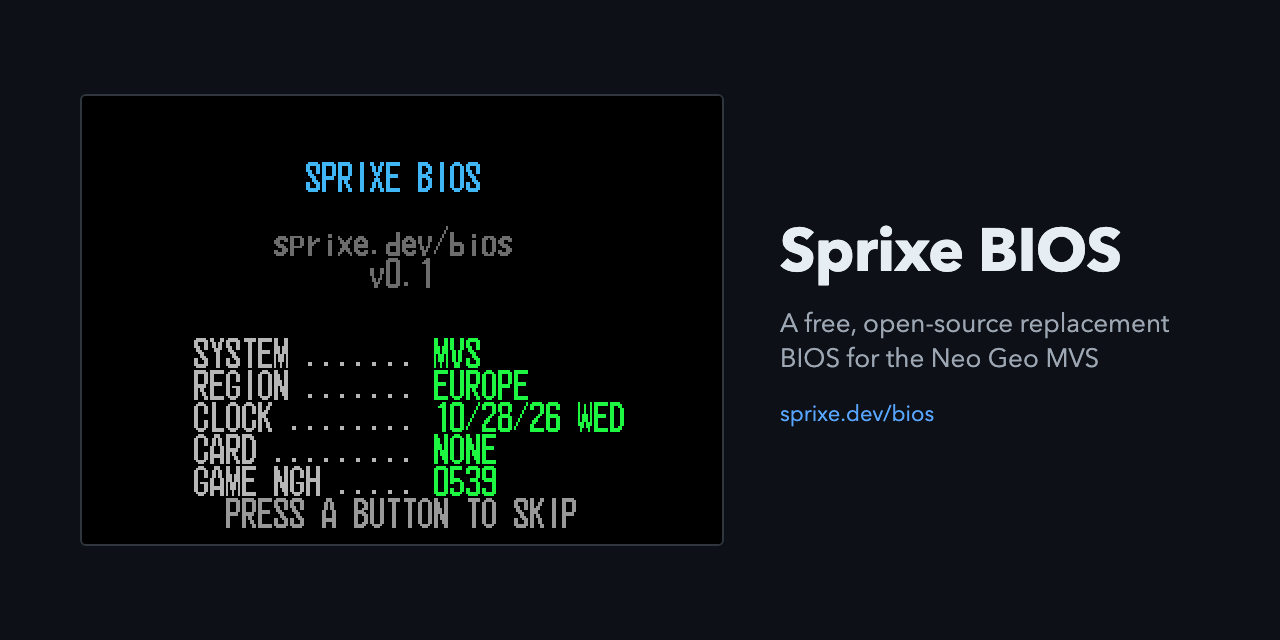
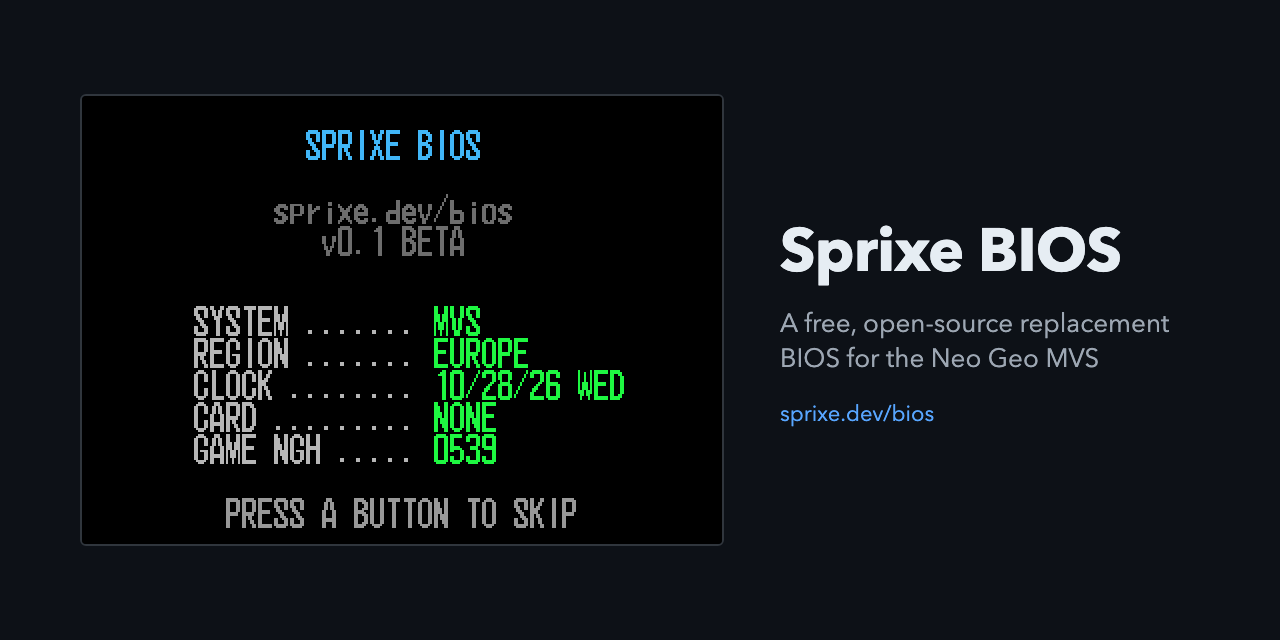
docs: boot screenshots retaken with the new layout
Taken under MAME 0.286 from the image 8d9a7611…, on an MV-6F
(neogeo -bios euro) with Magic Castle in slot 1 through a local
software list, no window; frames dumped by bench/son.lua.

- boot.png: frame 120 (the skip hint lit), x2 nearest neighbour.
- boot.gif: frames 1-180 at 59.185 Hz resampled to 25 fps, x2 nearest
  neighbour, 76 frames like the previous one.
- social-preview.png: the previous card with the new boot.png pasted at
  the same place (82, 96).

Changed region(s): [[0.2188, 0.1875, 0.4062, 0.4688], [0.3125, 0.4688, 0.5, 0.7812], [0.1562, 0.4688, 0.25, 0.7812]]

diff --git a/README.md b/README.md
@@ -29,9 +29,9 @@ in the backup RAM signature.
 
 ## Screenshots
 
-Taken under MAME 0.286 from the image this repository builds (SHA-256 `18da0b0a…`), with Magic
-Castle, a homebrew game made with the Sprixe studio, as the cartridge. The in-game menu and
-autofire screens are over Metal Slug (© SNK).
+Taken under MAME 0.286 from the image this repository builds (SHA-256 `18da0b0a…`; the boot screen
+from `8d9a7611…`), with Magic Castle, a homebrew game made with the Sprixe studio, as the
+cartridge. The in-game menu and autofire screens are over Metal Slug (© SNK).
 
 | | | |
 |---|---|---|
